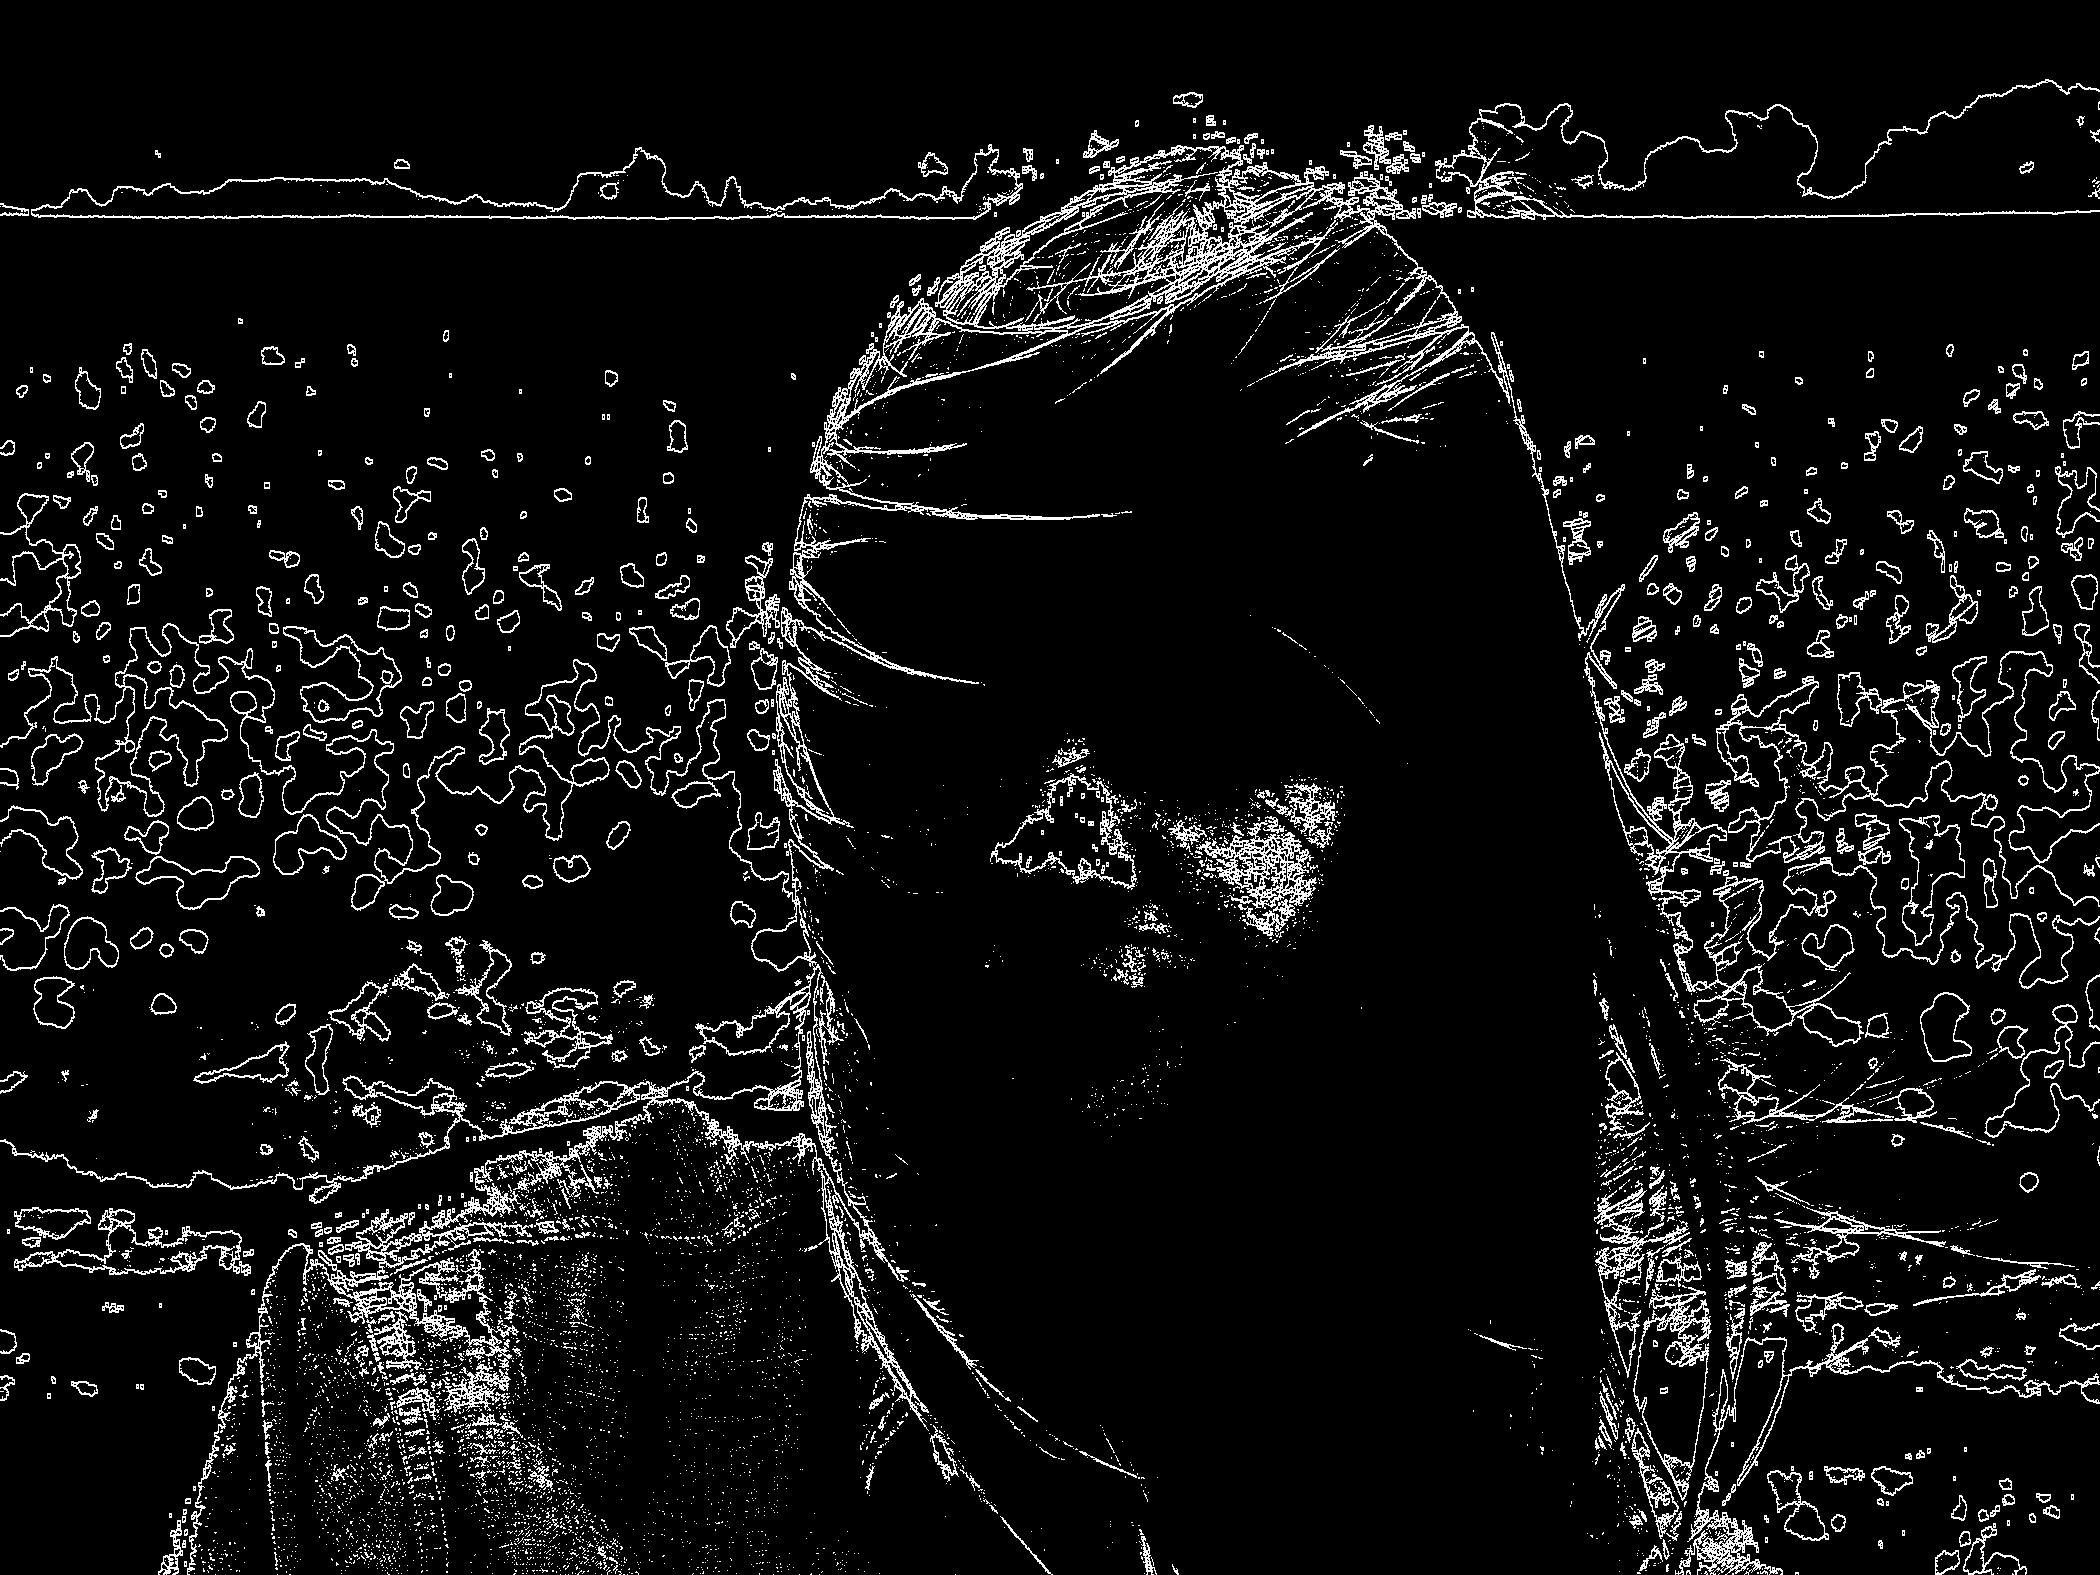
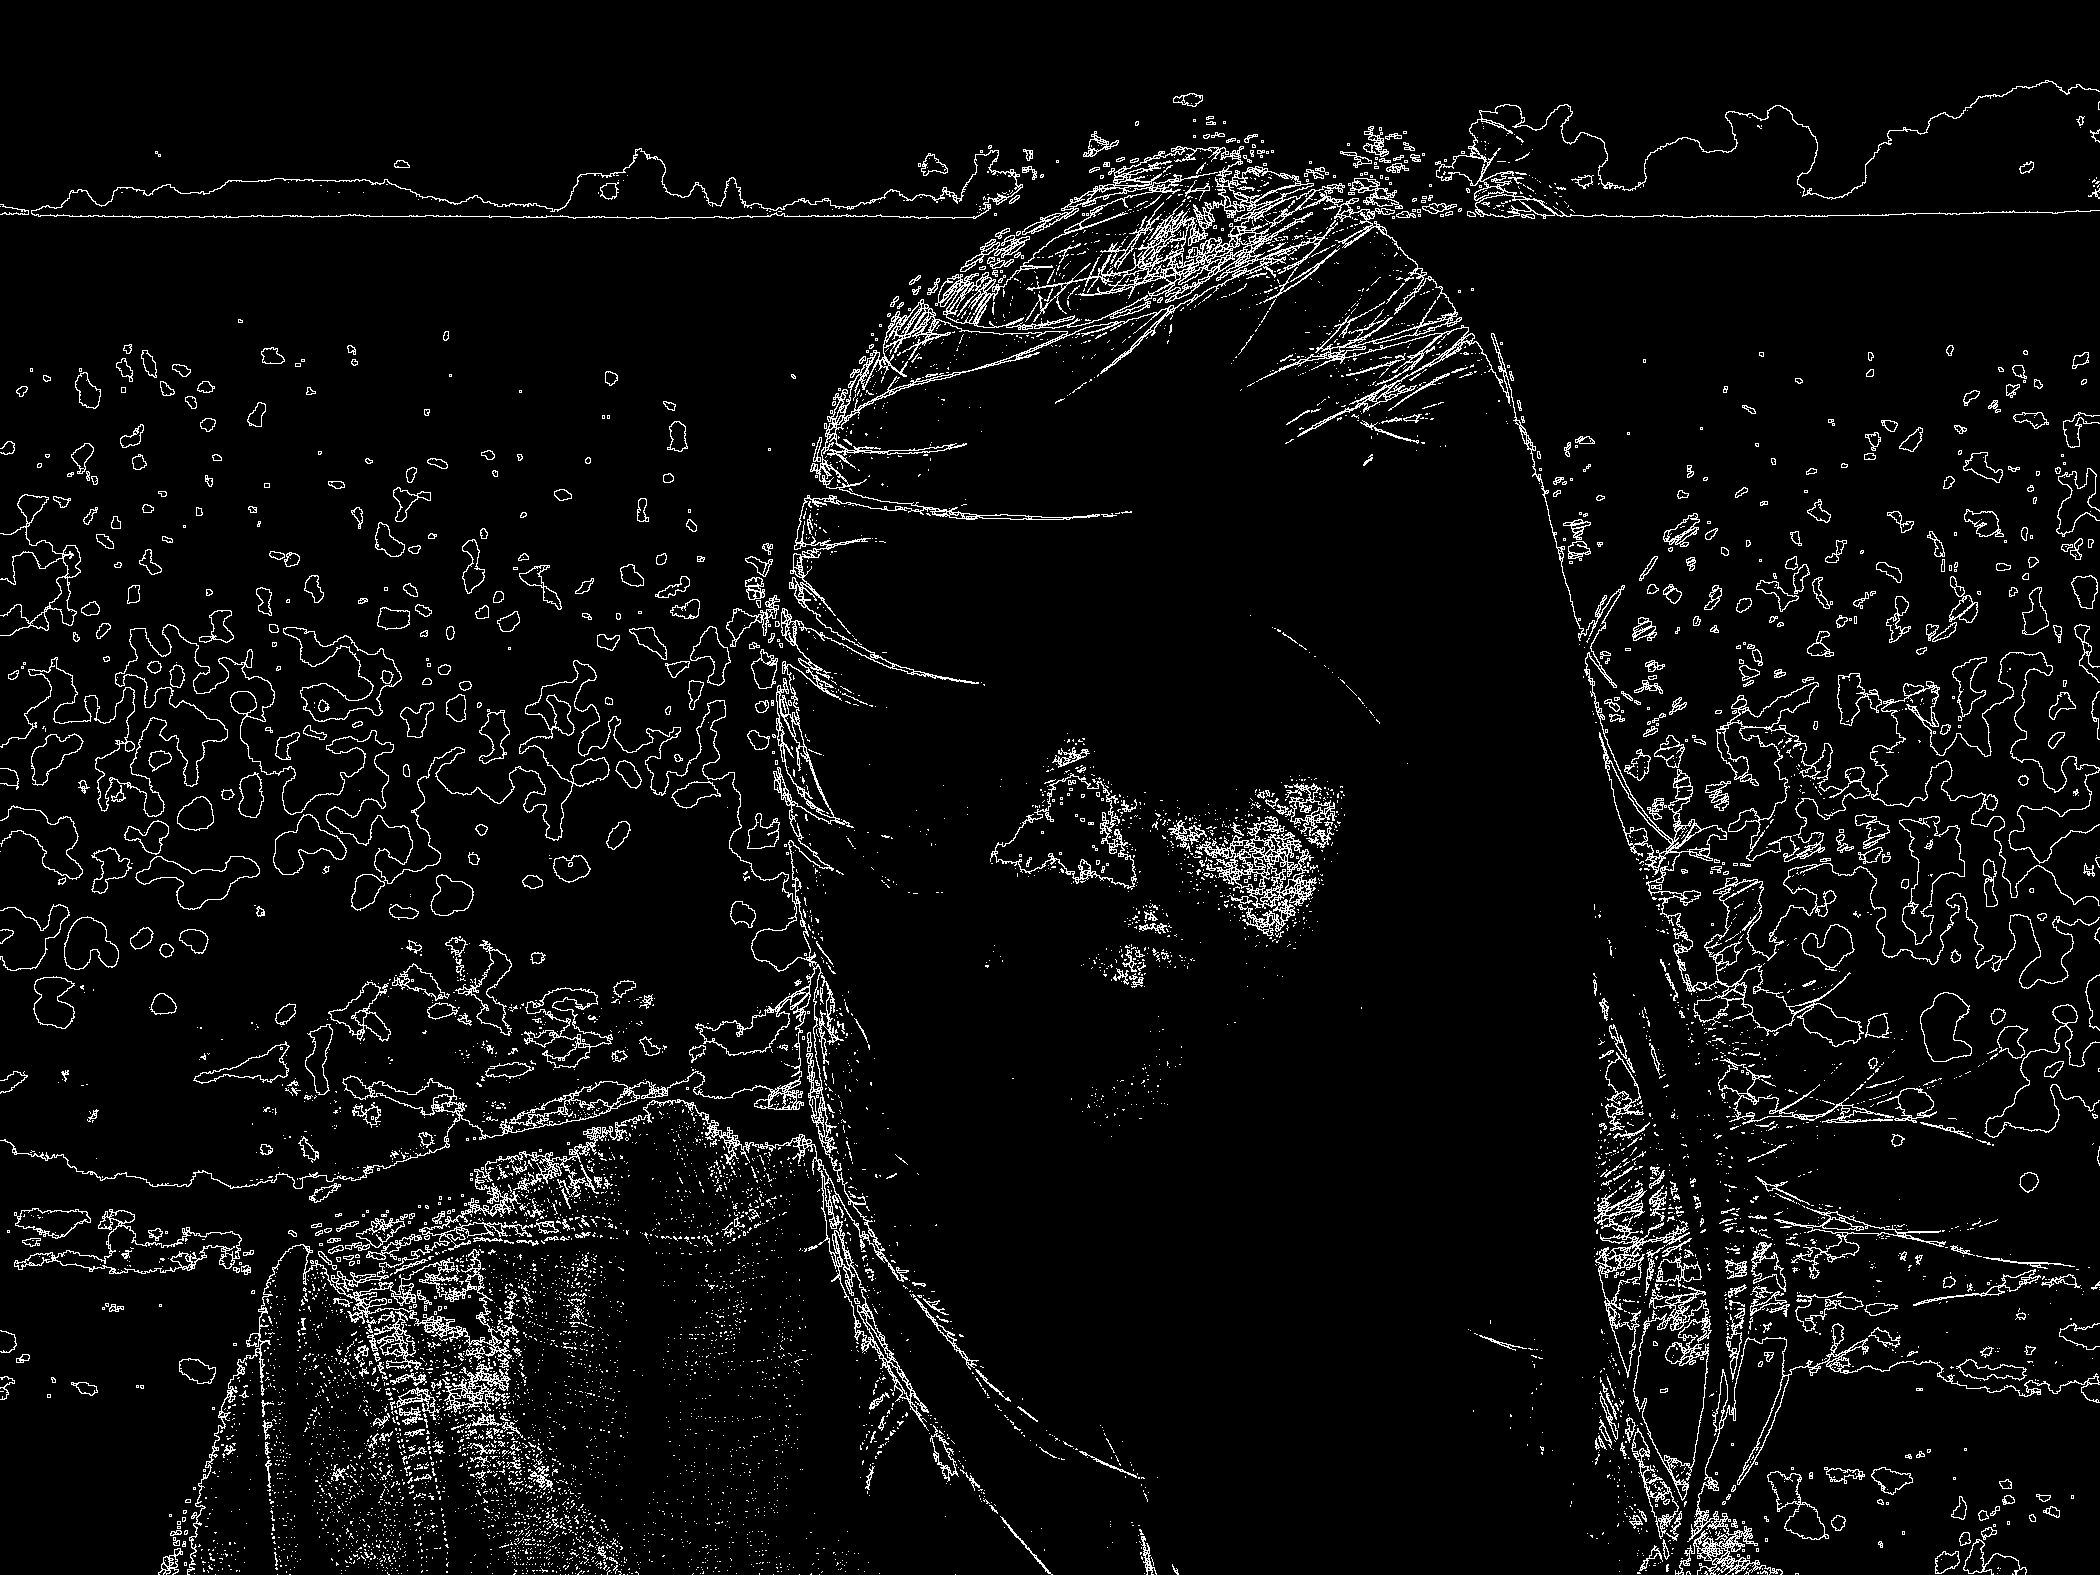
- Correção da janela de extração de borda

diff --git a/FaceDetect/src/extraction/Boundary.java b/FaceDetect/src/extraction/Boundary.java
@@ -12,7 +12,7 @@ public class Boundary {
 	private static int windowHeight;
 
 	static {
-		window = new int[][] { { 255, 255, 255, 255, 255 }, { 255, 255, 255, 255, 255 }, { 255, 255, 255, 255, 255 } };
+		window = new int[][] { { 255, 255, 255}, { 255, 255, 255 }, { 255, 255, 255 } };
 
 		windowWidth = window.length;
 		windowHeight = window[0].length;
